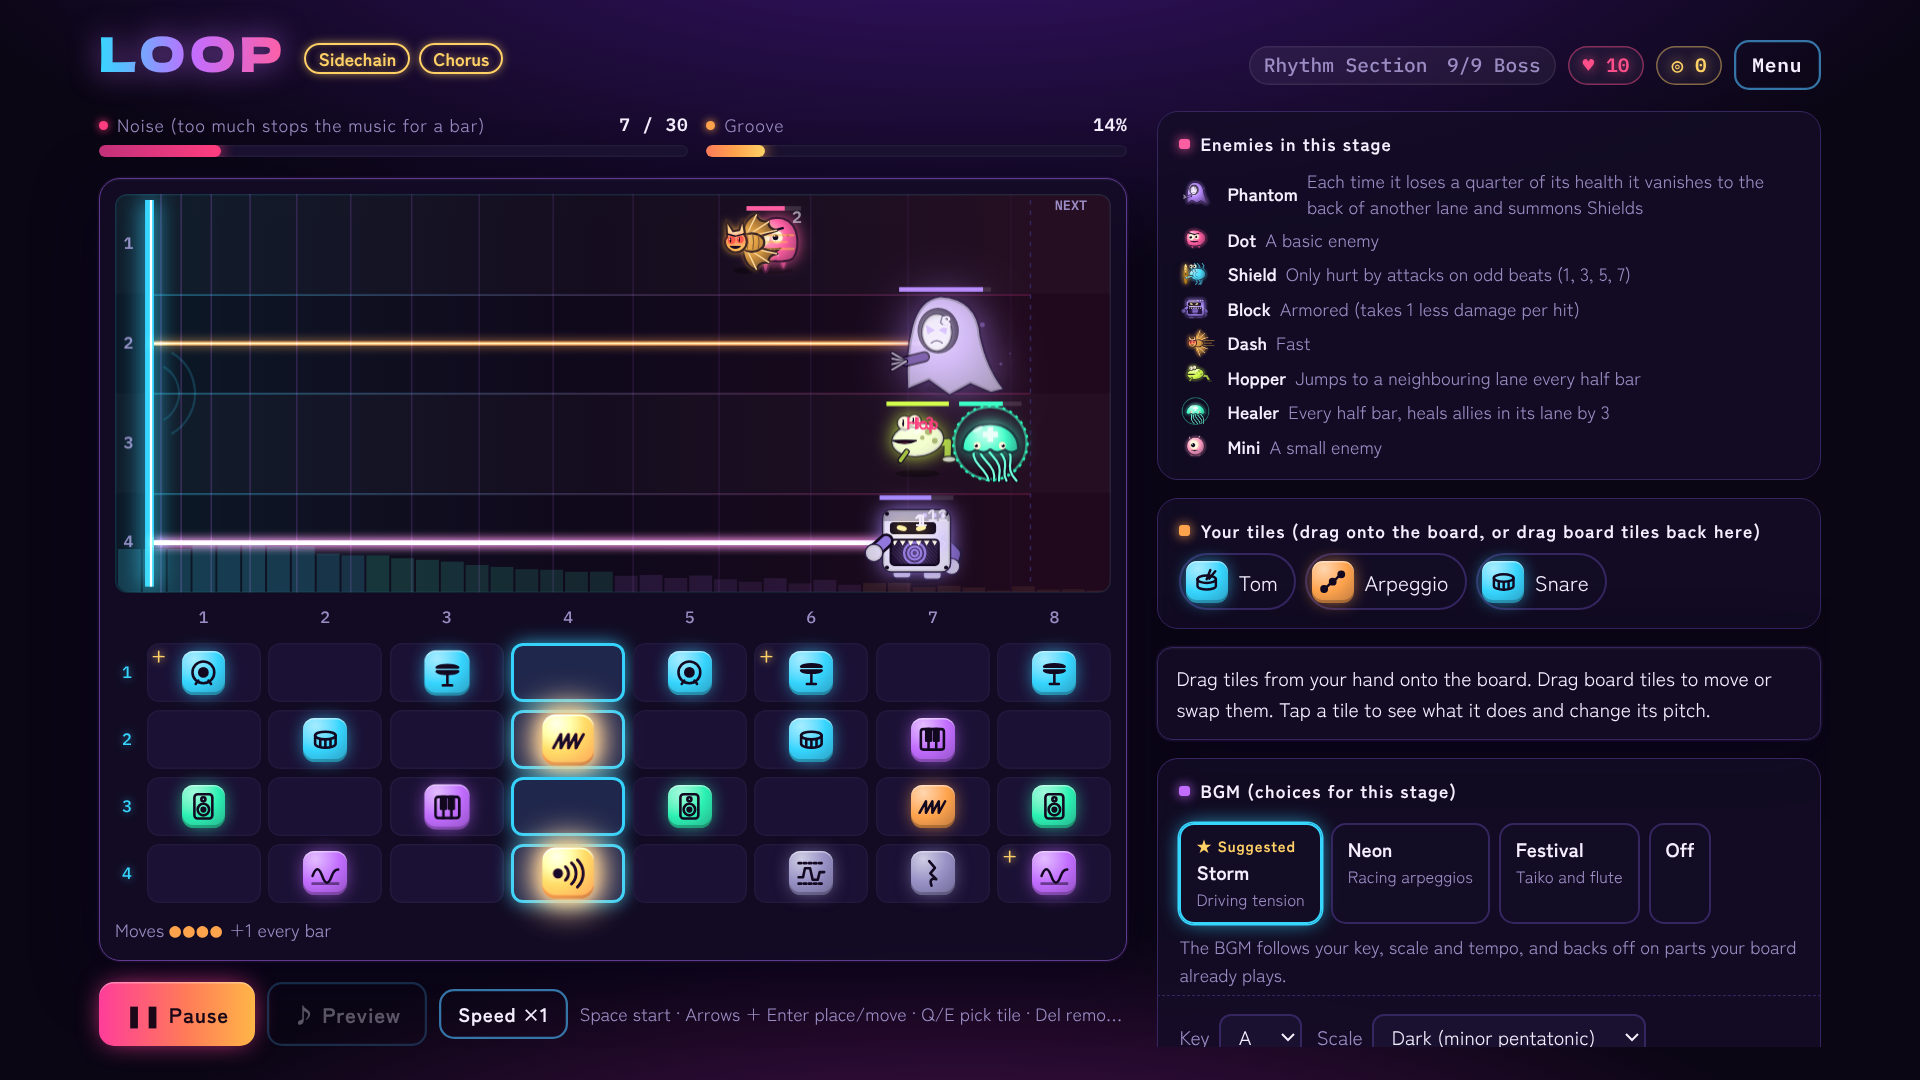
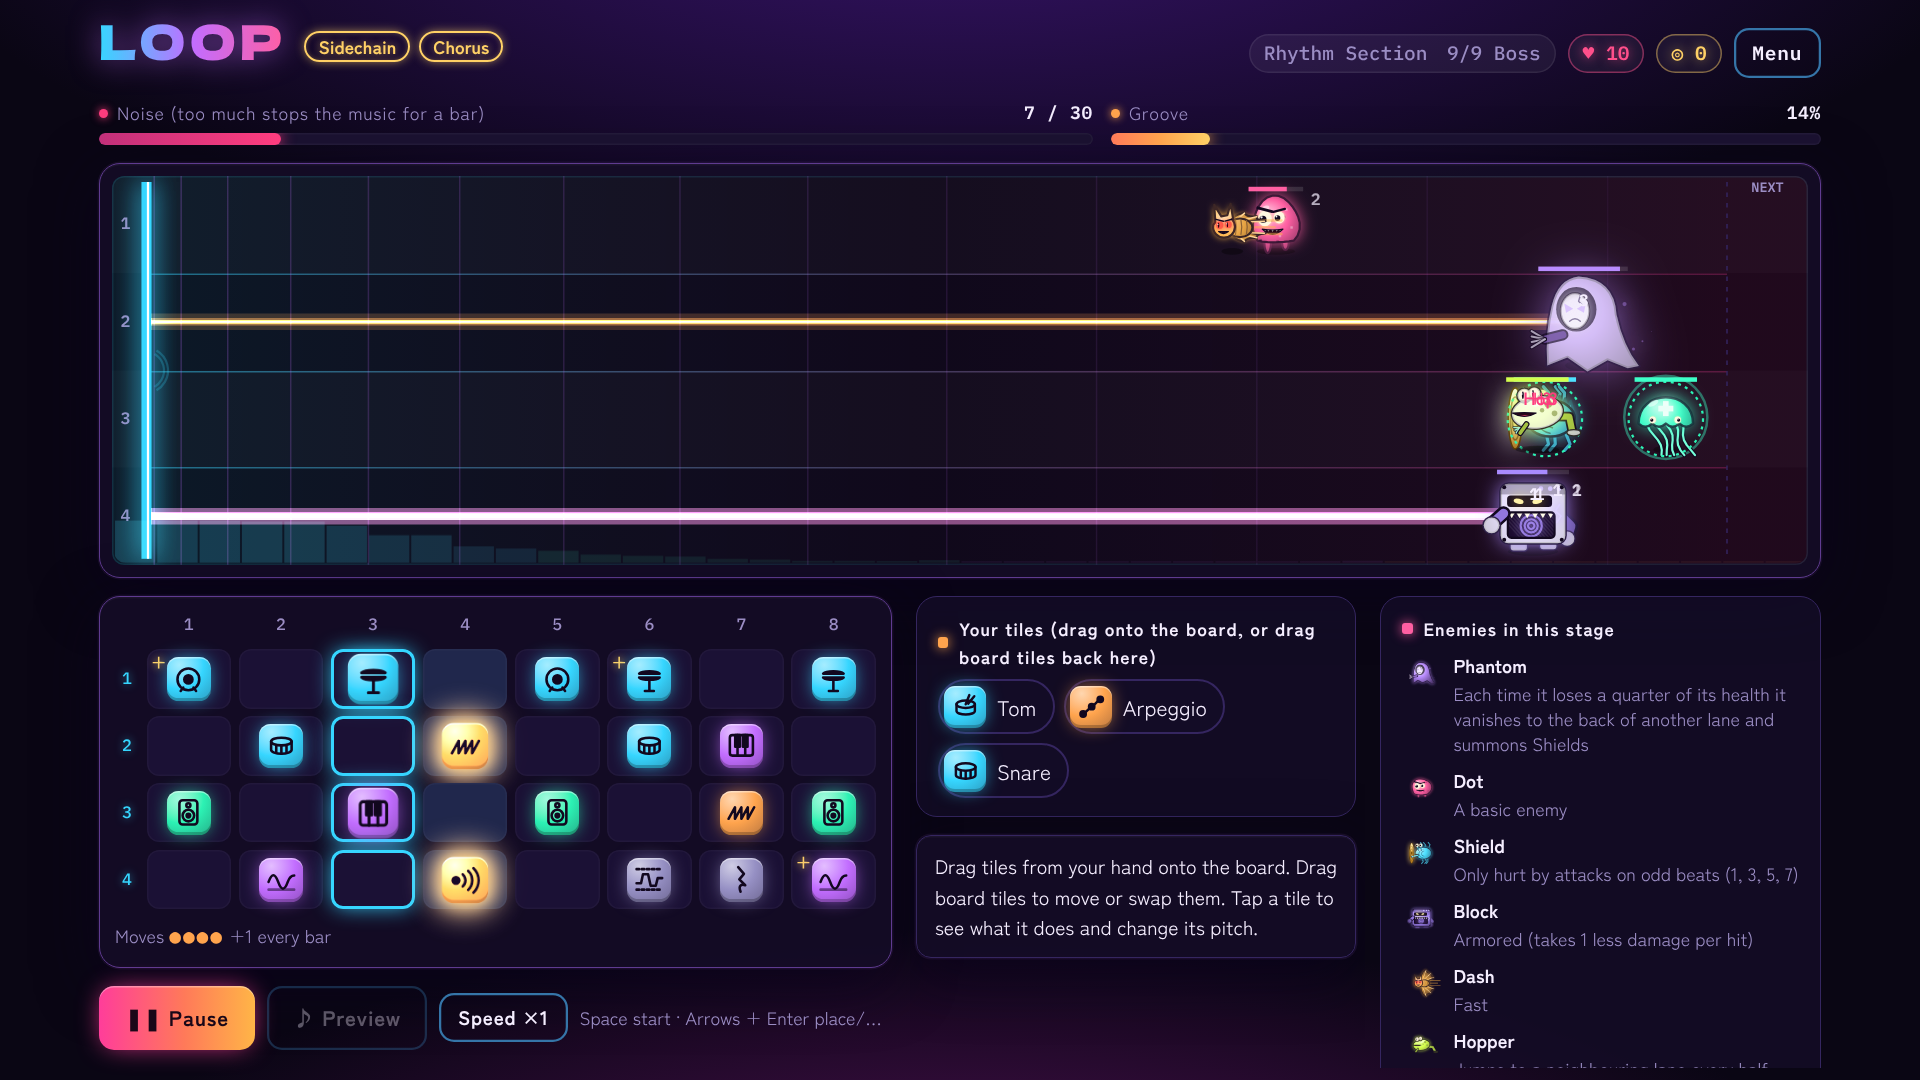
LOOP v2.7: full-width battlefield with a three-column deck below; cached backdrop and blur-free glows keep 60fps
Claude-Session: https://claude.ai/code/session_01LMYF2JBUaNhZnfXt7kDBCg

diff --git a/games/loop/prototype.html b/games/loop/prototype.html
@@ -172,22 +172,30 @@ canvas#field.hurt { animation: hurt .25s linear; }
 .offer[aria-pressed="true"] { border-color: var(--fg); box-shadow: 0 0 0 1px var(--fg); }
 .unlock { color: var(--gold); font-weight: 700; }
 .layout { display: flex; flex-direction: column; gap: 14px; }
-.main, .side { display: flex; flex-direction: column; gap: 14px; min-width: 0; }
+.main, .side, .deck { display: flex; flex-direction: column; gap: 14px; min-width: 0; }
+/* The battlefield gets its own full-width panel above the board. */
+.arena { background: color-mix(in srgb, var(--surface) 88%, transparent); border: 1px solid color-mix(in srgb, var(--harm) 30%, var(--line)); border-radius: 14px; padding: 8px;
+  box-shadow: 0 0 0 1px rgba(194, 109, 255, .08), 0 10px 40px rgba(10, 0, 30, .6), inset 0 1px 0 rgba(255, 255, 255, .04); }
 .keys { display: none; }
 /* Phones: flatten the two columns and keep the hand pinned to the bottom so tiles can be dragged onto the board. */
 @media (max-width: 959px) {
-  .main, .side { display: contents; }
-  .bgm { order: 8; }
-  .coach { order: 1; } .relics { order: 2; } .meters { order: 3; } .stage { order: 4; } .controls { order: 5; }
-  #handZone { order: 6; position: sticky; bottom: 0; z-index: 6; background: var(--bg); border-top: 1px solid var(--line);
+  .main, .side, .deck { display: contents; }
+  .coach { order: 1; } .relics { order: 2; } .meters { order: 3; } .arena { order: 4; } .foes { order: 5; } .stage { order: 6; } .controls { order: 7; }
+  #handZone { order: 8; position: sticky; bottom: 0; z-index: 6; background: var(--bg); border-top: 1px solid var(--line);
     padding-block: 8px max(8px, env(safe-area-inset-bottom, 0px)); border-radius: 0; }
-  #info { order: 7; } .sound { order: 8; } details { order: 9; } .proto { order: 10; } .foes { order: 4; }
+  #info { order: 9; } .bgm { order: 10; } .sound { order: 11; } details { order: 12; } .proto { order: 13; }
 }
 @media (min-width: 960px) {
-  .app { max-width: 1180px; }
-  .layout { display: grid; grid-template-columns: minmax(0, 1.55fr) minmax(300px, 1fr); gap: 20px; align-items: start; }
-  .side { position: sticky; top: max(16px, env(safe-area-inset-top, 0px)); max-height: calc(var(--vh) * 100 - 92px); overflow-y: auto; padding: 4px 6px 4px 4px; margin: -4px -6px -4px -4px; }
-  canvas#field { height: clamp(220px, calc(var(--vh) * 37), 410px); }
+  /* Desktop: header, meters and a full-width battlefield on top; below it three columns —
+     the board and controls, your tiles and the tile info, then enemies and sound settings.
+     The page is exactly one screen tall; the two side columns scroll on their own if they overflow. */
+  body { margin: 0; }
+  .app { max-width: 1180px; height: calc(var(--vh) * 100); }
+  .layout { flex: 1; min-height: 0; gap: 12px; }
+  .deck { flex: 1; min-height: 0; display: grid; grid-template-columns: minmax(0, 1.8fr) minmax(0, 1fr) minmax(0, 1fr); gap: 16px; align-items: stretch; }
+  .main { min-height: 0; gap: 12px; }
+  .side { min-height: 0; overflow-y: auto; padding: 4px 6px 4px 4px; margin: -4px -6px -4px -4px; }
+  canvas#field { height: clamp(200px, calc(var(--vh) * 36), 520px); }
   .keys { display: inline; }
   .app { padding-block: 10px 12px; }
   #board .cell { aspect-ratio: auto; height: clamp(32px, calc(var(--vh) * 5.5), 66px); }
@@ -296,8 +304,10 @@ select { background: #1a1130; }
 /* ---- UI polish: cards, pills, icons ---- */
 .e-ico { width: 26px; height: 26px; flex: none; margin: -3px 2px -3px -2px; }
 .foes .legend { flex-direction: column; flex-wrap: nowrap; gap: 3px; }
-.foes .legend span { display: flex; align-items: center; gap: 6px; }
-.foes .legend b { white-space: nowrap; }
+.foes .legend span { display: grid; grid-template-columns: 28px minmax(0, 1fr); column-gap: 6px; align-items: start; line-height: 1.4; }
+.foes .legend span img { grid-row: span 2; margin: 1px 0 0; }
+.foes .legend b { white-space: nowrap; font-size: 12.5px; }
+.foes .legend { gap: 7px; }
 #foesPanel .panel-title::before { background: var(--enemy); box-shadow: 0 0 8px var(--enemy); }
 .cx-ico { width: 46px; height: 46px; margin: -6px 0; }
 .legend span { display: inline-flex; align-items: center; gap: 2px; }
@@ -353,8 +363,6 @@ select { background: #1a1130; }
     </div>
   </header>
   <div class="layout">
-  <div class="main">
-
   <div class="meters">
     <div class="meter">
       <div class="meter-label"><span data-i18n="ui.noise"></span><b id="noiseText">0 / 30</b></div>
@@ -366,11 +374,16 @@ select { background: #1a1130; }
     </div>
   </div>
 
-  <section class="stage">
+  <section class="arena">
     <div class="field-wrap">
       <canvas id="field" data-i18n-aria="ui.fieldAria"></canvas>
       <canvas id="viz" aria-hidden="true"></canvas>
     </div>
+  </section>
+
+  <div class="deck">
+  <div class="main">
+  <section class="stage">
     <div class="board" id="beatNums"></div>
     <div class="board" id="board"></div>
     <div class="board-foot"><span class="tempo" id="tempoLabel"></span><span class="over-label" id="overLabel"></span></div>
@@ -383,20 +396,21 @@ select { background: #1a1130; }
     <span class="hint keys" data-i18n="ui.keys"></span>
   </div>
   </div>
-  <div class="side">
-  <div class="coach" id="coach" role="status" aria-live="polite" hidden></div>
-
-  <section class="foes" id="foesPanel">
-    <p class="panel-title" data-i18n="legend.title"></p>
-    <div class="legend" id="legend"></div>
-  </section>
-
+  <div class="side side-a">
   <section id="handZone">
     <p class="panel-title" data-i18n="ui.hand"></p>
     <div class="hand" id="hand"></div>
   </section>
 
   <div class="info" id="info"></div>
+  </div>
+  <div class="side side-b">
+  <div class="coach" id="coach" role="status" aria-live="polite" hidden></div>
+
+  <section class="foes" id="foesPanel">
+    <p class="panel-title" data-i18n="legend.title"></p>
+    <div class="legend" id="legend"></div>
+  </section>
 
   <section class="bgm" id="bgmPanel">
     <p class="panel-title" data-i18n="bgm.title"></p>
@@ -414,12 +428,12 @@ select { background: #1a1130; }
     <span class="hint" data-i18n="ui.soundNote"></span>
   </div>
 
-
   <details>
     <summary data-i18n="ui.howtoTitle"></summary>
     <ul id="howto"></ul>
   </details>
   <p class="proto" data-i18n="ui.proto"></p>
+  </div>
   </div>
   </div>
 </div>
@@ -690,7 +704,7 @@ function setLang(l) { LANG = l; SET.lang = l; store.set('settings', SET); applyS
 const langSelect = id => `<label class="check" for="${id}">${t('ui.lang')}
   <select id="${id}">${LANGS.map(l => `<option value="${l}" ${l === LANG ? 'selected' : ''}>${I18N[l]['meta.name']}</option>`).join('')}</select></label>`;
 // Colour-blind friendly palette (Okabe–Ito). Tiles also differ by shape, so colour is never the only cue.
-function applyCb() { document.documentElement.toggleAttribute('data-cb', !!SET.cb); }
+function applyCb() { document.documentElement.toggleAttribute('data-cb', !!SET.cb); fieldColors = null; }
 applyCb();
 function applyVolumes() { if (musicBus) { musicBus.gain.value = SET.music; sfxBus.gain.value = SET.sfx; bgmBus.gain.value = SET.bgm * .6; } }
 
@@ -1777,12 +1791,25 @@ function enemyIcon(type) {
 }
 // Synthwave backdrop: grid lines rush from the far right toward the speaker, faster while the music plays.
 let gridT = 0;
+// The still parts (tint, lane stripes, lane lines) are drawn once per canvas size and reused every frame.
+let backdropCache = null;
+function buildBackdrop() {
+  const c = document.createElement('canvas'); c.width = cv.width; c.height = cv.height;
+  const g = c.getContext('2d'); g.setTransform(cx.getTransform());
+  const lh = CH / LANES, x0 = BASE_X, x1 = CW - QUEUE_W - 4;
+  const gr = g.createLinearGradient(x0, 0, x1, 0);
+  gr.addColorStop(0, 'rgba(54,214,255,.10)'); gr.addColorStop(.5, 'rgba(194,109,255,.05)'); gr.addColorStop(1, 'rgba(255,61,154,.10)');
+  g.fillStyle = gr; g.fillRect(0, 0, CW, CH);
+  for (let l = 0; l < LANES; l++) if (l % 2 === 0) { g.fillStyle = 'rgba(255,255,255,.025)'; g.fillRect(0, l * lh, CW, lh); }
+  const lg = g.createLinearGradient(x0, 0, x1, 0); lg.addColorStop(0, 'rgba(54,214,255,.45)'); lg.addColorStop(1, 'rgba(255,61,154,.25)');
+  g.strokeStyle = lg; g.lineWidth = 1;
+  for (let l = 1; l < LANES; l++) { const y = Math.round(l * lh) + .5; g.beginPath(); g.moveTo(x0, y); g.lineTo(x1, y); g.stroke(); }
+  return { c, key: cv.width + 'x' + cv.height };
+}
 function drawBackdrop(C, dt) {
-  const lh = CH / LANES, x0 = BASE_X, x1 = CW - QUEUE_W - 4, span = x1 - x0;
-  const g = cx.createLinearGradient(x0, 0, x1, 0);
-  g.addColorStop(0, 'rgba(54,214,255,.10)'); g.addColorStop(.5, 'rgba(194,109,255,.05)'); g.addColorStop(1, 'rgba(255,61,154,.10)');
-  cx.fillStyle = g; cx.fillRect(0, 0, CW, CH);
-  for (let l = 0; l < LANES; l++) if (l % 2 === 0) { cx.fillStyle = 'rgba(255,255,255,.025)'; cx.fillRect(0, l * lh, CW, lh); }
+  const x0 = BASE_X, x1 = CW - QUEUE_W - 4, span = x1 - x0;
+  if (!backdropCache || backdropCache.key !== cv.width + 'x' + cv.height) backdropCache = buildBackdrop();
+  cx.save(); cx.setTransform(1, 0, 0, 1, 0, 0); cx.drawImage(backdropCache.c, 0, 0); cx.restore();
   const playing = G.phase === 'play' || G.listening || G.studio && G.listening;
   gridT = (gridT + dt * (playing ? .55 * (G.speed || 1) * (G.fever > 0 ? 1.8 : 1) : .08)) % 1;
   const N = 14;
@@ -1792,17 +1819,12 @@ function drawBackdrop(C, dt) {
     const a = .05 + .22 * (1 - u);
     cx.strokeStyle = `rgba(194,109,255,${a})`; cx.beginPath(); cx.moveTo(x, 0); cx.lineTo(x, CH); cx.stroke();
   }
-  for (let l = 1; l < LANES; l++) {
-    const y = Math.round(l * lh) + .5;
-    const lg = cx.createLinearGradient(x0, 0, x1, 0);
-    lg.addColorStop(0, 'rgba(54,214,255,.45)'); lg.addColorStop(1, 'rgba(255,61,154,.25)');
-    cx.strokeStyle = lg; cx.beginPath(); cx.moveTo(x0, y); cx.lineTo(x1, y); cx.stroke();
-  }
 }
+var fieldColors = null; // cached CSS colours; cleared when the palette changes (applyCb)
 function drawField(dt) {
   if (!CW) sizeCanvas();
-  const C = { lead: css('lead'), bg: css('bg'), fg: css('fg'), muted: css('muted'), line: css('line'), cell: css('cell'), life: css('life'), enemy: css('enemy'), noise: css('noise'),
-              drum: css('drum'), bass: css('bass'), harm: css('harm'), lead: css('lead'), fx: css('fx') };
+  const C = fieldColors || (fieldColors = { lead: css('lead'), bg: css('bg'), fg: css('fg'), muted: css('muted'), line: css('line'), cell: css('cell'), life: css('life'), enemy: css('enemy'), noise: css('noise'),
+              drum: css('drum'), bass: css('bass'), harm: css('harm'), lead: css('lead'), fx: css('fx') });
   cx.clearRect(0, 0, CW, CH);
   const lh = CH / LANES;
   drawBackdrop(C, dt);
@@ -1827,11 +1849,13 @@ function drawField(dt) {
     const a = Math.max(0, f.life / f.max);
     if (f.kind === 'lane') { cx.fillStyle = C[f.color]; cx.globalAlpha = .18 * a; cx.fillRect(BASE_X, f.lane * lh + 2, CW - BASE_X, lh - 4); }
     if (f.kind === 'hurt') { cx.fillStyle = C.life; cx.globalAlpha = .35 * a; cx.fillRect(0, f.lane * lh, CW, lh); }
-    if (f.kind === 'beam') { cx.save(); cx.globalCompositeOperation = 'lighter'; cx.strokeStyle = C[f.color]; cx.shadowColor = C[f.color]; cx.shadowBlur = 10;
-      cx.globalAlpha = a; cx.lineWidth = 3; cx.beginPath(); cx.moveTo(BASE_X, laneY(f.lane)); cx.lineTo(xPix(f.x), laneY(f.lane)); cx.stroke();
+    if (f.kind === 'beam') { cx.save(); cx.globalCompositeOperation = 'lighter'; cx.strokeStyle = C[f.color];
+      cx.beginPath(); cx.moveTo(BASE_X, laneY(f.lane)); cx.lineTo(xPix(f.x), laneY(f.lane));
+      cx.globalAlpha = a * .22; cx.lineWidth = 11; cx.stroke(); cx.globalAlpha = a * .45; cx.lineWidth = 5; cx.stroke();
+      cx.globalAlpha = a; cx.lineWidth = 2.5; cx.stroke();
       cx.strokeStyle = '#ffffff'; cx.lineWidth = 1; cx.globalAlpha = a * .8; cx.stroke(); cx.restore(); }
-    if (f.kind === 'bit') { const tt = f.max - f.life; cx.save(); cx.globalCompositeOperation = 'lighter'; cx.fillStyle = C[f.color] || C.enemy; cx.shadowColor = cx.fillStyle; cx.shadowBlur = 6; cx.globalAlpha = a;
-      cx.fillRect(xPix(f.x) + f.dx * tt - 2, laneY(f.lane) + f.dy * tt - 2, 4, 4); cx.restore(); }
+    if (f.kind === 'bit') { const tt = f.max - f.life; cx.save(); cx.globalCompositeOperation = 'lighter'; cx.fillStyle = C[f.color] || C.enemy; const bx = xPix(f.x) + f.dx * tt, by = laneY(f.lane) + f.dy * tt;
+      cx.globalAlpha = a * .3; cx.fillRect(bx - 4, by - 4, 8, 8); cx.globalAlpha = a; cx.fillRect(bx - 2, by - 2, 4, 4); cx.restore(); }
     if (f.kind === 'pop') { cx.strokeStyle = f.ecolor || C.enemy; cx.globalAlpha = a; cx.lineWidth = 1.5; cx.beginPath(); cx.arc(xPix(f.x), laneY(f.lane), f.r + (1 - a) * 14, 0, Math.PI * 2); cx.stroke(); }
     cx.globalAlpha = 1;
     f.life -= dt;
@@ -2735,6 +2759,8 @@ function applySpots() {
   document.querySelectorAll('.spot').forEach(e => e.classList.remove('spot'));
   if (!inTutorial() || G.phase === 'menu') return;
   for (const sel of TUT[G.tutorial].spots) document.querySelectorAll(sel).forEach(e => e.classList.add('spot'));
+  // Side columns scroll on their own; bring a highlighted panel into view if it sits below the fold.
+  const first = document.querySelector('.side .spot'); if (first) first.scrollIntoView({ block: 'nearest', behavior: 'smooth' });
 }
 function tutorialDone() {
   store.set('tutorialDone', true);

diff --git a/games/loop/i18n.js b/games/loop/i18n.js
@@ -29,7 +29,7 @@ window.LOOP_I18N = {
       '攻撃を当て続けるとグルーヴがたまり、満タンで2小節のフィーバー（攻撃1.5倍）。敵に抜かれると減ります。',
       '挑戦は戦闘の開始時と行き先を選ぶときに自動保存されます。',
     ],
-    'ui.proto': '試作版 v2.6 — 戦場を大きく',
+    'ui.proto': '試作版 v2.7 — 戦場を横いっぱいに',
     'ui.lang': '言語',
     // board & field
     'f.immune': '無効', 'f.reflect': '反射', 'f.sealFloat': '{n}拍目を封印',
@@ -244,7 +244,7 @@ window.LOOP_I18N = {
       'Keep landing hits to build Groove. When it fills up you get two bars of Fever (attacks ×1.5). Letting an enemy through drains it.',
       'Your run is saved automatically at the start of each battle and whenever you choose a route.',
     ],
-    'ui.proto': 'PROTOTYPE v2.6 — Bigger battlefield',
+    'ui.proto': 'PROTOTYPE v2.7 — Full-width battlefield',
     'ui.lang': 'Language',
     'f.immune': 'Immune', 'f.reflect': 'Reflected', 'f.sealFloat': 'Beat {n} sealed',
     'f.idle': '{node} — place tiles, then press Start stage',
@@ -455,7 +455,7 @@ window.LOOP_I18N = {
       '持续命中可积累律动，充满后进入2小节的狂热（攻击×1.5）。被敌人突破会减少律动。',
       '每场战斗开始时以及选择路线时会自动保存进度。',
     ],
-    'ui.proto': '原型 v2.6 — 更大的战场',
+    'ui.proto': '原型 v2.7 — 全宽战场',
     'ui.lang': '语言',
     'f.immune': '无效', 'f.reflect': '反射', 'f.sealFloat': '封印第{n}拍',
     'f.idle': '{node}　摆好音块后点击“开始关卡”',

diff --git a/games/loop/README.md b/games/loop/README.md
@@ -249,6 +249,14 @@
 - モンスターをレーンの高さに合わせて大きく描くようにした。「次」の列の敵の絵も少し大きく
 - 右側の並びを、遊んでいる間に大事な順（出てくる敵 → 手持ちのタイル → 説明 → BGMと音の設定）に変えた
 
+## v2.7 の追加（戦場を横いっぱいに）
+
+- PC 画面の配置を組み替え、戦場を画面の横幅いっぱいに広げた（1280×720 で幅 約660px→約1130px、高さ 約258px。大きな画面では最大520px）
+- 戦場の下は3列：左に盤面と操作ボタン、中央に手持ちのタイルとタイルの説明、右に出てくる敵・BGMと音の設定。中央と右の列は、はみ出すとその列だけスクロールする
+- チュートリアルの案内は右の列の一番上に表示。案内が指す場所が列の下に隠れているときは自動でスクロールして見せる
+- スマホでは今までどおり縦に並ぶ（戦場 → 出てくる敵 → 盤面 → 操作 → 手持ち）
+- 描画を軽くした：戦場の動かない部分（色・レーン・線）を一度だけ描いて使い回す、攻撃の光をぼかし処理なしで描く、色の読み込みを毎フレームしない。攻撃が激しい場面でも毎秒60コマ（変更前は同じ場面で38コマ）
+
 ## 製品版の想定（10時間ボリューム）
 
 タイル約100種、装置約30種、楽器セット6種、ボス12体、難易度10段階、エンドレス、毎日の挑戦、スタジオモード、曲の保存・書き出し。
